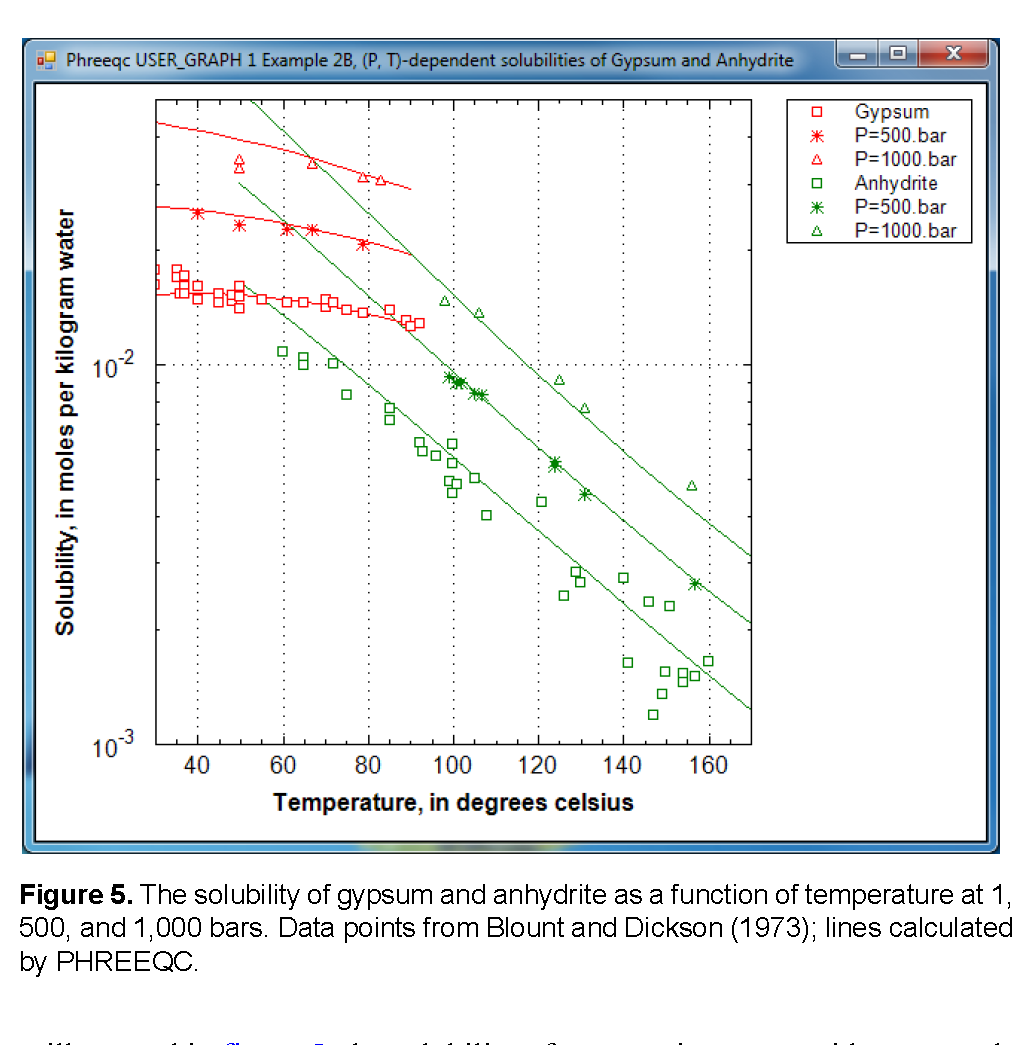
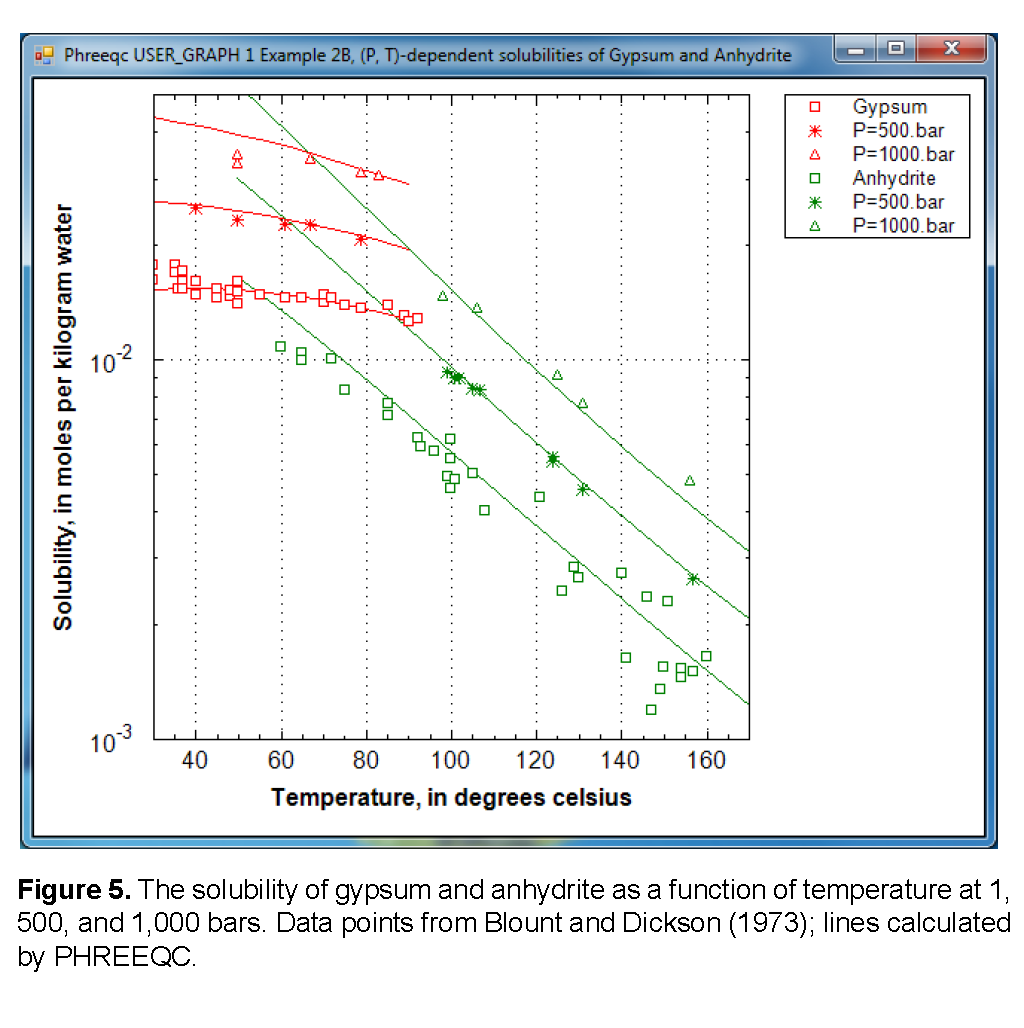
Trimmed a couple png.
Set style="width:60%" for USEMAP images (also a few to 75%)

Think I'm done for now.

git-svn-id: svn://136.177.114.72/svn_GW/phreeqc3/trunk@7814 1feff8c3-07ed-0310-ac33-dd36852eb9cd

diff --git a/HTMLversion/HTML/phreeqc3-76.htm b/HTMLversion/HTML/phreeqc3-76.htm
@@ -23,7 +23,7 @@ Na<Sup CLASS="Superscript">
 <DIV>
 <MAP NAME="phreeqc3-333">
 </MAP>
-<IMG SRC="phreeqc3-333.png" USEMAP="#phreeqc3-333">
+<IMG SRC="phreeqc3-333.png" style="width:60%" USEMAP="#phreeqc3-333">
 </DIV>
 <P CLASS="BodyText">
 <A NAME="50606095_pgfId-1504124"></A>For calculating diffusion, one needs to account for the different diffusion coefficients of the tracers, the effect of the filters, and the properties of the clay. Figure 22 presents a schematic diagram of the processes in the clay (Appelo and others, 2010). The pores in the clay are lined with clay minerals that have a negative surface charge. The charge is partly neutralized by cations that are bound to the surface and partly by the electrostatic double layer that extends some distance into the pore. The double layer contains an excess of cations (counter-ions, in general) and a deficit of anions (co-ions, in general). In swelling clay minerals, such as montmorillonite, cations in the interlayer space also neutralize part of the negative charge. In comparison with concentration gradients that drive diffusion in free (uncharged) pore water, the gradient for a cation is magnified in the double layer, whereas the gradient for an anion is diminished, and the gradient for a neutral species remains the same. The charge in the double layer lowers the dielectric permittivity of the water, which enhances the ion-association of cations and anions into neutral species. Also, the viscosity of water may be higher than in free pore water. Where double layers overlap in pore constrictions, anions are impeded and forced to take longer paths, whereas cations and neutral species pass through unhindered.</P>
@@ -40,7 +40,7 @@ Na<Sup CLASS="Superscript">
 <DIV>
 <MAP NAME="phreeqc3-336">
 </MAP>
-<IMG SRC="phreeqc3-336.png" USEMAP="#phreeqc3-336">
+<IMG SRC="phreeqc3-336.png" style="width:60%" USEMAP="#phreeqc3-336">
 </DIV>
 <DIV>
 <H3 CLASS="EquationNumbered">
@@ -1887,12 +1887,12 @@ j</EM>
 <DIV>
 <MAP NAME="phreeqc3-349">
 </MAP>
-<IMG SRC="phreeqc3-349.png" USEMAP="#phreeqc3-349">
+<IMG SRC="phreeqc3-349.png" style="width:75%" USEMAP="#phreeqc3-349">
 </DIV>
 <DIV>
 <MAP NAME="phreeqc3-350">
 </MAP>
-<IMG SRC="phreeqc3-350.png" USEMAP="#phreeqc3-350">
+<IMG SRC="phreeqc3-350.png" style="width:75%" USEMAP="#phreeqc3-350">
 </DIV>
 <P CLASS="BodyText">
 <A NAME="50606095_pgfId-1694866"></A>The model simulates the experimental results very well (fig. 24), except for Cs+. The calculated arrival time of Cs+ is almost 100 days later than observed and then the mass accumulates too slowly. This behavior of Cs+ has been found in many similar experiments. It has been modeled by increasing the diffusion coefficient and decreasing the sorption capacity for Cs+ relative to batch experiments; these adjustments can be easily incorporated in this example.</P>
@@ -1905,7 +1905,7 @@ j</EM>
 <DIV>
 <MAP NAME="phreeqc3-351">
 </MAP>
-<IMG SRC="phreeqc3-351.png" USEMAP="#phreeqc3-351">
+<IMG SRC="phreeqc3-351.png" style="width:60%" USEMAP="#phreeqc3-351">
 </DIV>
 <P CLASS="BodyText">
 <A NAME="50606095_pgfId-1509938"></A>Alternatively, and in line with the heterogeneous distribution of Cs+ in the clay after the experiment, the relatively fast arrival time can be modeled with a dual-porosity structure in which the pore space is subdivided into continuous and stagnant pores that can exchange by diffusion. The continuous pores allow Cs+ to move more rapidly through the clay than is calculated for a homogeneous medium, depending on the proportion, the flow velocity, and the diffusional exchange with the stagnant pores. With <A HREF="phreeqc3-76.htm#50606095_83544" CLASS="XRef">equation 49</A>, and some effort, the dual-porosity structure can be introduced in the Basic program. Otherwise, the C program that is given as supplementary information in Appelo and others (2010) can be used. Similarly to the Basic program, the C program writes a complete PHREEQC input file for diffusion of Cs+, but in a dual porosity clay; in addition, the program permits distributing the surface and exchange sites differently between the stagnant and continuous pores.</P>

diff --git a/HTMLversion/HTML/phreeqc3-65.htm b/HTMLversion/HTML/phreeqc3-65.htm
@@ -665,7 +665,7 @@ ex10.sel</EM>
 <DIV>
 <MAP NAME="phreeqc3-245">
 </MAP>
-<IMG SRC="phreeqc3-245.png" USEMAP="#phreeqc3-245">
+<IMG SRC="phreeqc3-245.png" style="width:60%" USEMAP="#phreeqc3-245">
 </DIV>
 <P CLASS="BodyText">
 <A NAME="50606095_pgfId-383291"></A>The excess free-energy parameters describe a nonideal solid solution that has a miscibility gap. For compositions that fall within the miscibility gap, the activities of calcium and strontium within the aqueous phase remain fixed and are in equilibrium with solids of two compositions, one solid with a strontium mole fraction of 0.0048 and one solid with a strontium mole fraction of 0.8579. For the simulations of example 10, each incremental addition of strontium carbonate increases the mole fraction of strontium carbonate in the solid until about 0.001 mol of strontium carbonate have been added (fig. 11A). That point is the beginning of the miscibility gap (fig. 11) and the composition of the solid is 0.0048 strontium mole fraction. The next increments of strontium carbonate (up to 0.005 mol strontium carbonate added) produce constant mole fractions of calcium and strontium in the solution (fig. 11B) and equilibrium with both the miscibility-gap end members. However, the amounts of calcium carbonate and strontium carbonate in the solid phases (fig. 11C) and the amounts of each of the miscibility gap end members (fig. 11D) vary with the amount of strontium carbonate added. Finally, the end of the miscibility gap is reached after about 0.005 mol of strontium carbonate have been added. At this point, the solution is in equilibrium with a single solid with a strontium mole fraction of 0.8579. Addition of more strontium carbonate increases the mole fractions of strontium in the aqueous phase and in the solid solution until both mole fractions are nearly 1.0 after the addition of 10 mol of strontium carbonate.</P>

diff --git a/HTMLversion/HTML/phreeqc3-61.htm b/HTMLversion/HTML/phreeqc3-61.htm
@@ -1744,7 +1744,7 @@ feldspar</P>
 <DIV>
 <MAP NAME="phreeqc3-228">
 </MAP>
-<IMG SRC="phreeqc3-228.png" USEMAP="#phreeqc3-228">
+<IMG SRC="phreeqc3-228.png" style="width:60%" USEMAP="#phreeqc3-228">
 </DIV>
 <P CLASS="BodyText">
 <A NAME="50606095_pgfId-1676061"></A>Selected results for simulations 6A1-6A4 are presented in <A HREF="phreeqc3-61.htm#50606095_13293" CLASS="XRef">table 22</A> and are plotted on figure.7 as points A, B, D, and F. The stability fields for the phases, which are based on the thermodynamic data, are calculated and plotted with <A HREF="phreeqc3-51.htm#50606081_26121" CLASS="XRef">USER_GRAPH</A> as explained later. At point B, gibbsite starts to be transformed into kaolinite, a reaction that consumes Si. From this point, the reaction path follows the gibbsite-kaolinite phase boundary until all gibbsite is converted (point C), and then crosses the kaolinite field to point D. Similarly, there is a point E on the kaolinite-K-mica phase boundary, where the reaction path starts crossing the K-mica field to point F. Simulations 6A5 and 6A6 (<A HREF="phreeqc3-61.htm#50606095_43862" CLASS="XRef">table 21</A>) solve for the two points C and E. In simulation 6A5, point C is calculated by specifying that kaolinite is present at equilibrium, while K-feldspar dissolves until gibbsite is at saturation, but with zero concentration in the phase assemblage. Likewise,  simulation 6A6 solves for the point where K-mica is at saturation and present in the phase assemblage, while kaolinite is at saturation, but with zero concentration (point E). Assigning an initial amount of 1 mol to kaolinite in 6A5 and to K-mica in 6A6 is arbitrary, but the amount must be sufficient to reach equilibrium with the mineral.</P>

diff --git a/HTMLversion/HTML/phreeqc3-63.htm b/HTMLversion/HTML/phreeqc3-63.htm
@@ -591,7 +591,7 @@ mol) and of weak binding sites (Hfo_w, 2&#215;10<Sup CLASS="Superscript">
 <DIV>
 <MAP NAME="phreeqc3-233">
 </MAP>
-<IMG SRC="phreeqc3-233.png" USEMAP="#phreeqc3-233">
+<IMG SRC="phreeqc3-233.png" style="width:75%" USEMAP="#phreeqc3-233">
 </DIV>
 <P CLASS="BodyText">
 <A NAME="50606095_pgfId-1676981"></A>There is one more point to be noted in figure.9. The charge balance of the solution, plotted on the secondary Y axis, becomes negative with decreasing pH because the surface sorbs protons from the solution. If the solution and surface are separated (for example by <A HREF="phreeqc3-49.htm#50606081_87317" CLASS="XRef">TRANSPORT</A> or by a <A HREF="phreeqc3-37.htm#50606081_81857" CLASS="XRef">SAVE</A> and subsequent <A HREF="phreeqc3-50.htm#50606081_78143" CLASS="XRef">USE</A>), the surface will keep its positive charge, and the solution its negative counter-charge. Such a separation of electrical charge is physically impossible. In reality, an electrical double layer exists on the surface that counterbalances the surface charge, and which remains with the surface when surface and solution are separated, thus keeping both of them electrically neutral. If the identifier -Donnan is added in keyword <A HREF="phreeqc3-45.htm#50606081_56392" CLASS="XRef">SURFACE</A>, the composition of the electrical double layer is calculated and stored with each of the surfaces in the assemblage; this explicitly calculated electrical double layer makes each surface a neutral entity. In the input file this option (-Donnan) can be uncommented, resulting in a zero charge balance when the file is run again.</P>

diff --git a/HTMLversion/HTML/phreeqc3-57.htm b/HTMLversion/HTML/phreeqc3-57.htm
@@ -287,7 +287,7 @@ ex2.sel</EM>
 <DIV>
 <MAP NAME="phreeqc3-219">
 </MAP>
-<IMG SRC="phreeqc3-219.png" USEMAP="#phreeqc3-219">
+<IMG SRC="phreeqc3-219.png" style="width:60%" USEMAP="#phreeqc3-219">
 </DIV>
 <P CLASS="BodyText">
 <A NAME="50606095_pgfId-1484506"></A>PHREEQC starts the simulation by calculating the solution composition if a new <A HREF="phreeqc3-41.htm#50606081_30253" CLASS="XRef">SOLUTION</A> (or <A HREF="phreeqc3-44.htm#50606081_84297" CLASS="XRef">SOLUTION_SPREAD</A>) data block is defined, continues with the reactions defined with the keywords, and prints the results of the calculations. The printout of the initial solution and the first batch-reaction step is listed in <A HREF="phreeqc3-57.htm#50606095_59998" CLASS="XRef">table 13</A>. Headings define the various parts and are self-explanatory.  <A NAME="50606095_20537"></A>       </P>
@@ -1182,7 +1182,7 @@ ex2.sel</EM>
 <DIV>
 <MAP NAME="phreeqc3-220">
 </MAP>
-<IMG SRC="phreeqc3-220.png" USEMAP="#phreeqc3-220">
+<IMG SRC="phreeqc3-220.png" style="width:60%" USEMAP="#phreeqc3-220">
 </DIV>
 <P CLASS="BodyText">
 <A NAME="50606095_pgfId-1591761"></A>However, as illustrated in figure.5, the solubility of gypsum increases with pressure because the sum of the aqueous molar volumes of the solute species together is smaller than the molar volume of gypsum. Another point to note is that the experimental data for the gypsum solubility extend into the stability field of anhydrite. Apparently, the precipitation of anhydrite is too slow to reduce the concentrations in the experiments.</P>

diff --git a/HTMLversion/HTML/phreeqc3-77.htm b/HTMLversion/HTML/phreeqc3-77.htm
@@ -16,7 +16,7 @@
 <DIV>
 <MAP NAME="phreeqc3-353">
 </MAP>
-<IMG SRC="phreeqc3-353.png" USEMAP="#phreeqc3-353">
+<IMG SRC="phreeqc3-353.png" style="width:60%" USEMAP="#phreeqc3-353">
 </DIV>
 <P CLASS="BodyText">
 <A NAME="50606095_pgfId-1645557"></A>The aqueous concentrations for a point in figure.27 can be calculated by initial equilibrium in the <A HREF="phreeqc3-41.htm#50606081_30253" CLASS="XRef">SOLUTION</A>:</P>
@@ -337,7 +337,7 @@
 <DIV>
 <MAP NAME="phreeqc3-354">
 </MAP>
-<IMG SRC="phreeqc3-354.png" USEMAP="#phreeqc3-354">
+<IMG SRC="phreeqc3-354.png" style="width:60%" USEMAP="#phreeqc3-354">
 </DIV>
 <P CLASS="BodyText">
 <A NAME="50606095_pgfId-1510757"></A>When the pressure is calculated from the molar volume of the gas or the gas mixture, PHREEQC checks whether the equation has three roots. If so, it will test whether another root can be found at a larger molar volume; the root with the maximum pressure will be used as the solution of the equation. Thus, the gas pressure may remain constant (or, possibly even decrease slightly because the parameters in a gas-mixture may change) even when the molar volume decreases. The gas liquefaction may result in small kinks in the calculated solubility curve (calculated by equilibrating a solution with a <A HREF="phreeqc3-17.htm#50606081_83409" CLASS="XRef">GAS_PHASE</A>), and one is visible in figure.27 at 65 atm and 25 &#176;C.</P>

diff --git a/HTMLversion/HTML/phreeqc3-54.htm b/HTMLversion/HTML/phreeqc3-54.htm
@@ -25,7 +25,7 @@
 <DIV>
 <MAP NAME="phreeqc3-212">
 </MAP>
-<IMG SRC="phreeqc3-212.png" USEMAP="#phreeqc3-212">
+<IMG SRC="phreeqc3-212.png" style="width:60%" USEMAP="#phreeqc3-212">
 </DIV>
 <P CLASS="BodyText">
 <A NAME="50606085_pgfId-533737"></A>PHREEQC calculations generate a large number of geochemical quantities, possibly distributed in space and time as well. Rather than storing or writing all of these quantities for a run, small Basic programs in the data blocks <A HREF="phreeqc3-51.htm#50606081_26121" CLASS="XRef">USER_GRAPH</A>, <A HREF="phreeqc3-52.htm#50606081_55085" CLASS="XRef">USER_PRINT</A> and <A HREF="phreeqc3-53.htm#50606081_56415" CLASS="XRef">USER_PUNCH</A> can be used to print selected items or to calculate and graph specific numbers such as sums of species or concentrations in milligrams per liter. Also, the implementation of isotopes as individual chemical components relies heavily on Basic programs in the <A HREF="phreeqc3-7.htm#50606081_35035" CLASS="XRef">CALCULATE_VALUES</A> data block, where Basic is used to calculate specific isotopic ratios, such as of carbon-13 in various bicarbonate species. Functions defined in <A HREF="phreeqc3-7.htm#50606081_35035" CLASS="XRef">CALCULATE_VALUES</A> data blocks can be used in any Basic program within PHREEQC.    </P>

diff --git a/HTMLversion/HTML/phreeqc3-69.htm b/HTMLversion/HTML/phreeqc3-69.htm
@@ -581,7 +581,7 @@ before</EM>
 <DIV>
 <MAP NAME="phreeqc3-266">
 </MAP>
-<IMG SRC="phreeqc3-266.png" USEMAP="#phreeqc3-266">
+<IMG SRC="phreeqc3-266.png" style="width:60%" USEMAP="#phreeqc3-266">
 </DIV>
 <P CLASS="BodyText">
 <A NAME="50606095_pgfId-1444754"></A>The advective-transport calculations produce three types of water that are similar to water types observed in the aquifer: the initial brine, a sodium bicarbonate water, and a calcium and magnesium bicarbonate water. The calculated pH values are consistent with observations of aquifer water. In the sodium dominated waters, the calculated pH is generally greater than 8.0 and sometimes greater than 9.0; in the calcium magnesium bicarbonate waters, the pH is slightly greater than 7.0. Sensitivity calculations indicate that the maximum pH depends on the amount of exchanger present. Decreasing the number of cation exchange sites decreases the maximum pH. Simulated arsenic concentrations are similar to values observed in the aquifer, where the maximum concentrations are from 75 to 150 ppb. Lower maximum pH values produce lower maximum arsenic concentrations. The stability constant for the surface complexation reactions have been taken directly from the literature; a decrease in the log <EM CLASS="Emphasis">

diff --git a/HTMLversion/HTML/phreeqc3-70.htm b/HTMLversion/HTML/phreeqc3-70.htm
@@ -2238,7 +2238,7 @@ ex15.sel</EM>
 <DIV>
 <MAP NAME="phreeqc3-278">
 </MAP>
-<IMG SRC="phreeqc3-278.png" USEMAP="#phreeqc3-278">
+<IMG SRC="phreeqc3-278.png" style="width:60%" USEMAP="#phreeqc3-278">
 </DIV>
 <P CLASS="BodyText">
 <A NAME="50606095_pgfId-1413411"></A>In figure.17, solid-phase concentrations are plotted against time for concentrations in the last cell of the column. The sorbed CoNta<Sup CLASS="Superscript">
@@ -2261,7 +2261,7 @@ d</Sub>
 <DIV>
 <MAP NAME="phreeqc3-279">
 </MAP>
-<IMG SRC="phreeqc3-279.png" USEMAP="#phreeqc3-279">
+<IMG SRC="phreeqc3-279.png" style="width:60%" USEMAP="#phreeqc3-279">
 </DIV>
 <P CLASS="BodyText">
 <A NAME="50606095_pgfId-1531367"></A>Both the 10-cell and the 20-cell models give similar results, which indicates that the numerical errors in the advective-dispersive transport simulation are relatively small; furthermore, the results are very similar to results given by Tebes-Stevens and Valocchi (1997) and Tebes-Stevens and others (1998). However, Tebes-Stevens and Valocchi (1997) included another part to their test problem that increased the rate constants for the sorption reactions from 1 to 1,000 h<Sup CLASS="Superscript">

diff --git a/HTMLversion/HTML/phreeqc3-74.htm b/HTMLversion/HTML/phreeqc3-74.htm
@@ -33,7 +33,7 @@
 <DIV>
 <MAP NAME="phreeqc3-325">
 </MAP>
-<IMG SRC="phreeqc3-325.png" USEMAP="#phreeqc3-325">
+<IMG SRC="phreeqc3-325.png" style="width:60%" USEMAP="#phreeqc3-325">
 </DIV>
 <P CLASS="BodyText">
 <A NAME="50606095_pgfId-1408940"></A>The three isotherms correspond to reactions and mass-action equations that can be entered in PHREEQC as follows:</P>
@@ -1166,7 +1166,7 @@
 <DIV>
 <MAP NAME="phreeqc3-331">
 </MAP>
-<IMG SRC="phreeqc3-331.png" USEMAP="#phreeqc3-331">
+<IMG SRC="phreeqc3-331.png" style="width:60%" USEMAP="#phreeqc3-331">
 </DIV>
 <P CLASS="BodyText">
 <A NAME="50606095_pgfId-1620318"></A>Earlier it was assumed that the organic-matter contribution to the CEC was negligible. The assumption is checked by calculating the Ca exchanged on organic matter relative to the amount exchanged on clays. The amount of calcium exchanged on organic matter is printed in the output file for the largest cadmium concentration as:</P>

diff --git a/HTMLversion/HTML/phreeqc3-67.htm b/HTMLversion/HTML/phreeqc3-67.htm
@@ -733,7 +733,7 @@ x</EM>
 <DIV>
 <MAP NAME="phreeqc3-257">
 </MAP>
-<IMG SRC="phreeqc3-257.png" USEMAP="#phreeqc3-257">
+<IMG SRC="phreeqc3-257.png" style="width:60%" USEMAP="#phreeqc3-257">
 </DIV>
 <P CLASS="BodyText">
 <A NAME="50606095_pgfId-1685327"></A>Because this example has an analytical solution, it is possible to verify the second-order accuracy of the numerical algorithms used in PHREEQC. For a second-order method, decreasing the cell size by a factor of three should improve the results by about a factor of nine. The deviations from the analytical solution at the end of the time step are calculated at distances from 0.5 to 8.5 m in 0.5 m increments. The results are shown in <A HREF="phreeqc3-67.htm#50606095_37620" CLASS="XRef">table 32</A>. As expected for a second-order method, the deviations from the analytical solution decreased by approximately an order of magnitude when the cell size was decreased by a factor of three.</P>

diff --git a/HTMLversion/HTML/phreeqc3-75.htm b/HTMLversion/HTML/phreeqc3-75.htm
@@ -1073,7 +1073,7 @@
 <DIV>
 <MAP NAME="phreeqc3-332">
 </MAP>
-<IMG SRC="phreeqc3-332.png" USEMAP="#phreeqc3-332">
+<IMG SRC="phreeqc3-332.png" style="width:75%" USEMAP="#phreeqc3-332">
 </DIV>
 <P CLASS="BodyText">
 <A NAME="50606095_pgfId-1424976"></A>The isotopic compositions of the open and closed systems as a function of marine calcite reacted are shown in figure.21. The isotopic compositions begin at the composition of the unsaturated-zone water. Initially, the water is undersaturated with the isotopic solid solution and no solid is present. The vertical lines on panels A, B, and C indicate the point at which a solid solution begins to form. </P>
